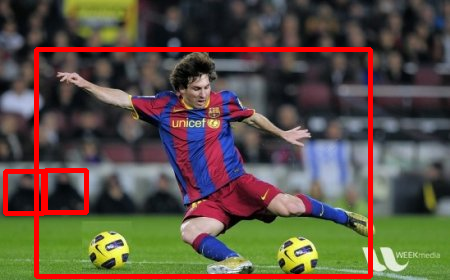
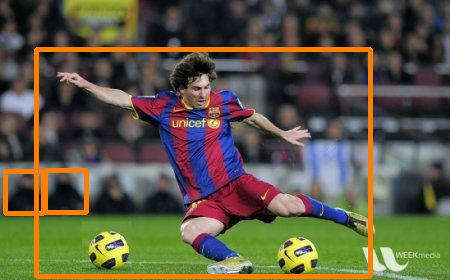
add command line args, change bbox and coordinate colours

Changed region(s): [[0.0, 0.1429, 0.84, 1.0]]

diff --git a/test/test.cpp b/test/test.cpp
@@ -31,6 +31,10 @@ const float VFOV = 56.34;
 const float PIXEL_SIZE = 0.0028;
 const std::vector<int> RESOLUTION = {1280,720};
 
+/**
+ * @brief Text fixture class for testing the tracker class. Takes care of the setup and teardown of the dynamically allocated tracker object for testing.
+ * 
+ */
 class TrackerTests : public testing::Test {
 public:
 
@@ -47,12 +51,20 @@ protected:
   Tracker *testTracker;
 };
 
+/**
+ * @brief Testing the pixel_to_camera_frame method of the tracker class by giving the method dummy detection pixels and expecting the corresponding distance estimate.
+ * 
+ */
 TEST_F(TrackerTests, test_pixel_to_camera_frame) {
   std::vector<cv::Point> prediction_pixels = {cv::Point(0,540),cv::Point(640,540)};
   std::vector<std::vector<float>> test_coordinates =  testTracker->pixel_to_camera_frame(prediction_pixels);
   ASSERT_THAT(test_coordinates[0], testing::ElementsAre(-2.70933342, 0.762, 2.86959529));
   ASSERT_THAT(test_coordinates[1], testing::ElementsAre(0, 0.762, 2.86959529));
 }
+/**
+ * @brief Testing the plot_coordinates method of the tracker class by giving it a predetermined image and comparing it to a verified image that has the plotted coordinates
+ * 
+ */
 
 TEST_F(TrackerTests, test_plot_coordinates) {
   cv::Mat input_frame = cv::imread("../../testing_assets/tracker_input.png");
@@ -64,7 +76,7 @@ TEST_F(TrackerTests, test_plot_coordinates) {
   cv::cvtColor(final_frame, gray1, cv::COLOR_BGR2GRAY);
   cv::cvtColor(expected_frame, gray2, cv::COLOR_BGR2GRAY);
   cv::Mat diff;
-  // cv::imwrite("../test1.png",final_frame);
+  cv::imwrite("../test2.png",final_frame);
   cv::compare(gray1, gray2, diff, cv::CMP_EQ);
   int nz = cv::countNonZero(diff);
   ASSERT_TRUE(nz>900000);
@@ -82,6 +94,10 @@ const float NMS_THRESHOLD = 0.45 ;
 const float SCORE_THRESHOLD = 0.5 ;
 const int YOLO_GRID_CELLS = 25200 ;
 
+/**
+ * @brief Text fixture class for testing the detector class. Takes care of the setup and teardown of the dynamically allocated detector object for testing.
+ * 
+ */
 class DetectorTests : public testing::Test {
 public:
 
@@ -106,6 +122,11 @@ protected:
   Detector *testDetector;
 };
 
+/**
+ * @brief Test to confirm the detect_humans function works as expected. We feed it a picture and compare the output with a working prediction to verify the model.
+ * 
+ */
+
 TEST_F(DetectorTests, test_detect_humans) {
   cv::Mat input_frame = cv::imread("../../testing_assets/detect_input.jpg");
   DetectorOutput output = testDetector->detect_humans(input_frame);
@@ -114,7 +135,7 @@ TEST_F(DetectorTests, test_detect_humans) {
   cv::cvtColor(output.boxed_img, gray1, cv::COLOR_BGR2GRAY);
   cv::cvtColor(expected_frame, gray2, cv::COLOR_BGR2GRAY);
   cv::Mat diff;
-  // cv::imwrite("../test1.png",final_frame);
+  cv::imwrite("../test1.png",output.boxed_img);
   cv::compare(gray1, gray2, diff, cv::CMP_EQ);
   int nz = cv::countNonZero(diff);
   ASSERT_TRUE(nz>120000);

diff --git a/app/main.cpp b/app/main.cpp
@@ -11,13 +11,14 @@
  */
 #include <iostream>
 #include <fstream>
+#include <string>
 #include "detector_header.hpp"
 #include "tracker_header.hpp"
 
 
 //Parameters to initialise detector object
-const std::string CLASSLIST_PATH = "../data/coco.names" ;
-const std::string MODEL_PATH = "../model/yolov5s.onnx" ;
+const std::string CLASSLIST_PATH = "./data/coco.names" ;
+const std::string MODEL_PATH = "./model/yolov5s.onnx" ;
 const float YOLO_IMG_WIDTH = 640.0 ;
 const float YOLO_IMG_HEIGHT = 640.0 ;
 const float CONFIDENCE_THRESHOLD = 0.45 ;
@@ -26,7 +27,7 @@ const float SCORE_THRESHOLD = 0.5 ;
 const int YOLO_GRID_CELLS = 25200 ;
 
 //Parameters to initialise tracker object
-const float HEIGHT = 0.762;
+float HEIGHT = 0.762;
 const float FOCAL_LENGTH = 1.898;
 const float HFOV = 100.11;
 const float VFOV = 56.34;
@@ -39,7 +40,11 @@ const std::vector<int> RESOLUTION = {1280,720};
  * 
  * @return * int 
  */
-int main() { 
+int main(int argc, char* argv[]) { 
+    //Use command line arguments to initialise camera and height
+    std::string capture_device = argv[1];
+    HEIGHT = std::stof(argv[2]);
+    //Initialise Detector
     std::vector<std::string> yolo_classes;
     std::ifstream read_input(CLASSLIST_PATH);
     std::string text;
@@ -50,7 +55,7 @@ int main() {
     cv::dnn::Net yolo_model = cv::dnn::readNet(MODEL_PATH) ;
     Detector detector(yolo_model,YOLO_IMG_WIDTH,YOLO_IMG_HEIGHT,CONFIDENCE_THRESHOLD,NMS_THRESHOLD,SCORE_THRESHOLD,YOLO_GRID_CELLS,yolo_classes) ;
     //Initialise Camera
-    cv::VideoCapture cap("/dev/video0");
+    cv::VideoCapture cap(capture_device);
     cap.set(cv::CAP_PROP_FRAME_WIDTH, 1280);
     cap.set(cv::CAP_PROP_FRAME_HEIGHT,720);
     if(!cap.isOpened()){

diff --git a/libs/ObjectDetector/detector_implementation.cpp b/libs/ObjectDetector/detector_implementation.cpp
@@ -46,7 +46,7 @@ void Detector::get_bounding_boxes(std::vector<cv::Rect> boxes, std::vector<float
     for(int i=0; i<indices.size(); i++){
         cv::Rect current_box = boxes[indices[i]] ;
         int left = current_box.x, top = current_box.y, width = current_box.width, height = current_box.height ;
-        rectangle(boxed_img,cv::Point(left,top),cv::Point(left+width,top+height),cv::Scalar(0, 0, 255),3);
+        rectangle(boxed_img,cv::Point(left,top),cv::Point(left+width,top+height),cv::Scalar(0, 128, 255),3);
         box_pixels.push_back(cv::Point(left + width/2, top + height)) ;
     }
 }

diff --git a/libs/ObjectTracker/tracker_implementation.cpp b/libs/ObjectTracker/tracker_implementation.cpp
@@ -112,7 +112,7 @@ cv::Mat Tracker::plot_coordinates(std::vector<cv::Point>  prediction_pixels, std
     cv::circle(frame, pt, 1, cv::Scalar(0, 255, 0), 2, 8, 0);
     std::string text = to_string_with_precision(coordinates[i][0], 2) + "," + to_string_with_precision(coordinates[i][1],2) + "," + to_string_with_precision(coordinates[i][2],2);
     // cout << test[0][1];
-    cv::putText(frame, text, pt, cv::FONT_HERSHEY_SIMPLEX , 1, {0,0,255});
+    cv::putText(frame, text, pt, cv::FONT_HERSHEY_SIMPLEX , 1, {125, 246, 55}, 3);
    }
   return frame;
 }

diff --git a/README.md b/README.md
@@ -72,12 +72,10 @@ To generate and view the Doxygen documentation of the project, run the following
 
 ### Running the Program Executables
 
-To try a demo of HDAL on your system's webcam, execute the following commands.
+To try a demo of HDAL on your system's webcam, execute the following commands. You should first know the input device `/dev/video0` in our case and measure the height of the camera. We will need this as command line arguments.
 ``` bash
-# Change your working directory to the 'build' folder:
-  cd build/
 # Execute the 'app/main.cpp' file to see a demo run of HDAL on your system's webcam:
-  ./build/app/HDAL_demo
+  ./build/app/HDAL_demo '/dev/video0' 0.762
 ```
 
 ### Running Unit Tests
